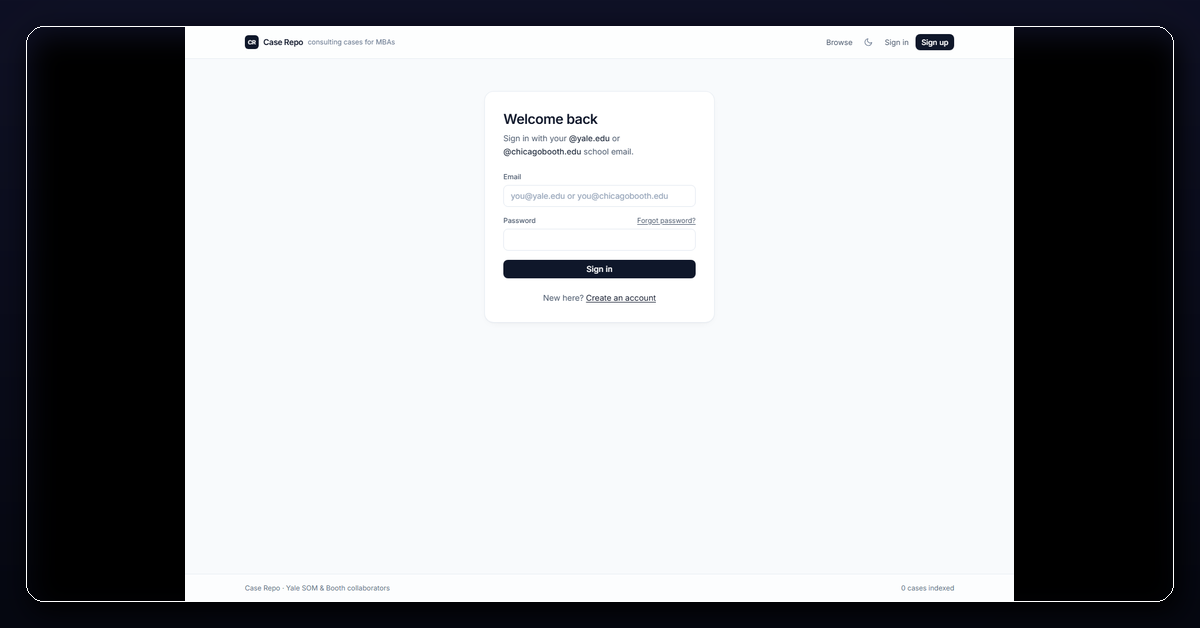
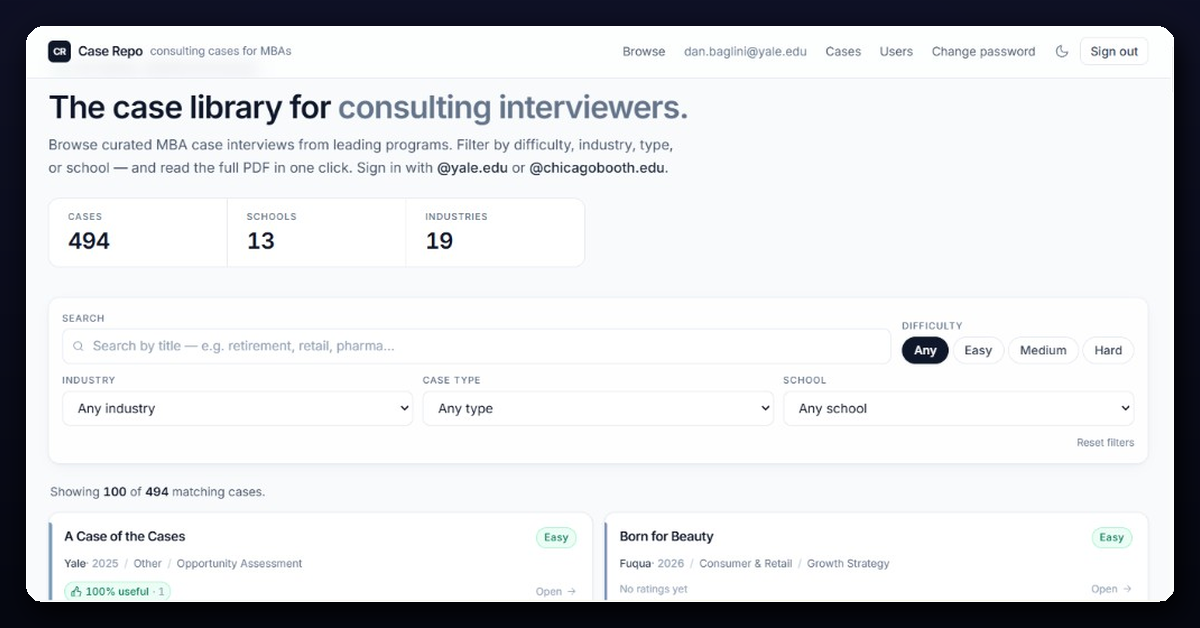
assets(projects): Case Repo preview from authenticated browse dashboard
Replace placeholder login-centric capture with user-provided screenshot of search, filters, and case grid.

diff --git a/src/data/content.js b/src/data/content.js
@@ -48,7 +48,7 @@ export const portfolioFeatured = [
     visualVariant: 'indigo',
     previewSrc: '/previews/case-repo.png',
     previewAlt:
-      'Case Repo web application: Yale and Booth co-branded header with Browse navigation and sign-in to the MBA consulting case catalog',
+      'Case Repo browse experience: case library hero, metrics, search and filters, and results grid for MBA consulting interviews',
   },
   {
     id: 'ri-calculator',